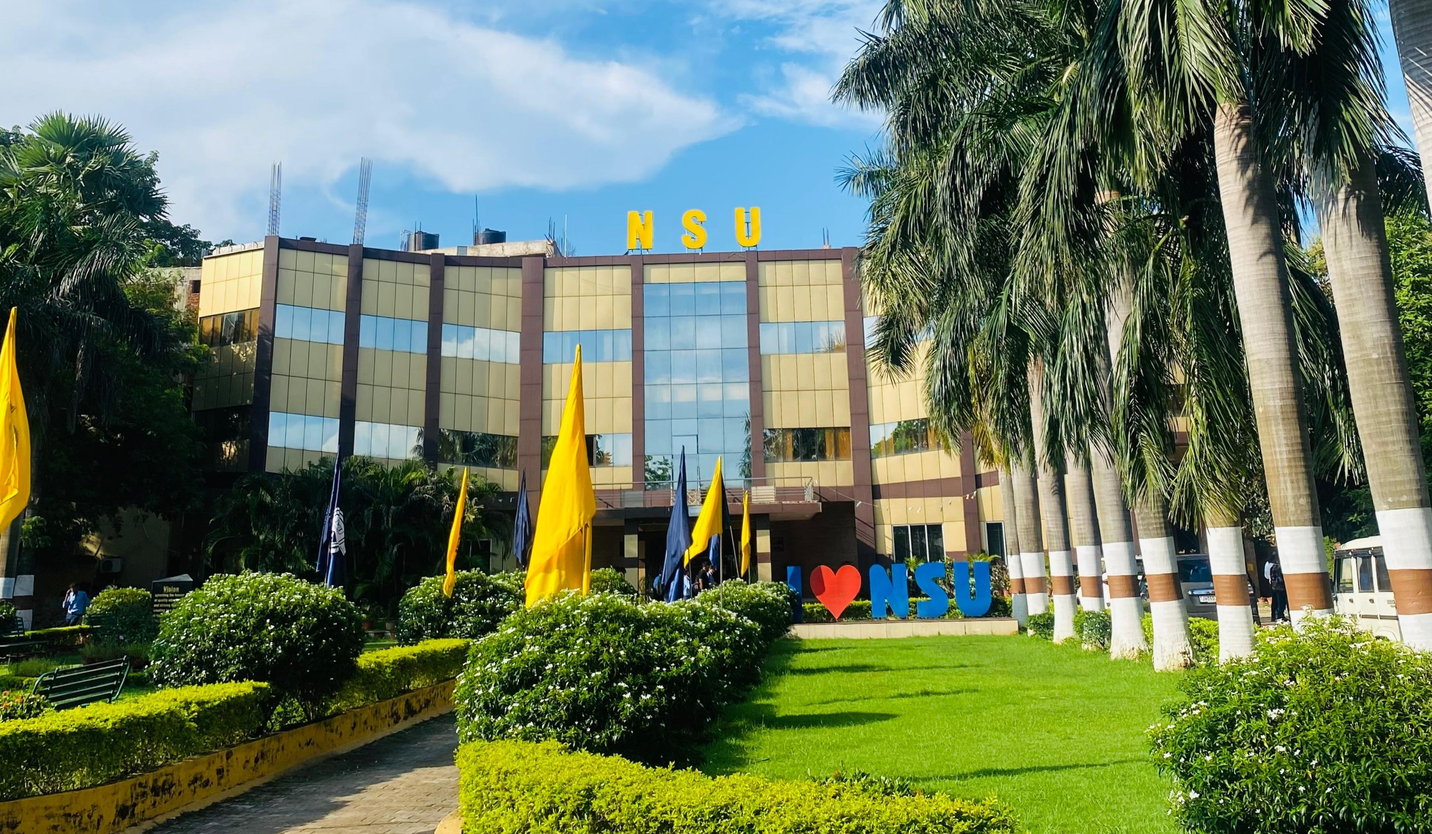
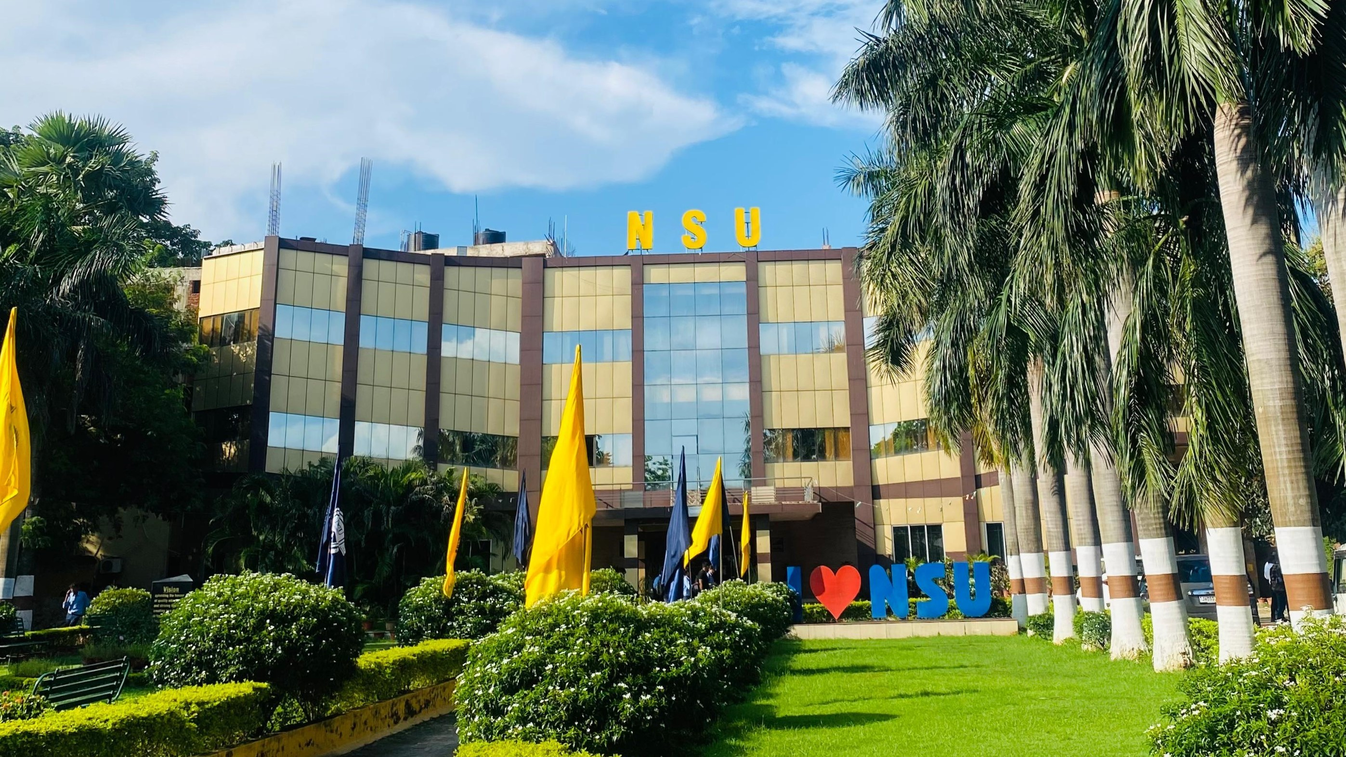
fix autofit buggs

diff --git a/index.html b/index.html
@@ -65,7 +65,7 @@
   </div>
   <div class="carousel-inner" >
     <div class="carousel-item active">
-      <img src="assets\img\nsu college.jpg" class="d-block w-100" alt="..." width="1080" height="650"  > 
+      <img src="assets\img\nsu college.jpg" class="d-block w-100" alt="..." width="1080" height="650" style="height: auto;" > 
       <!---For bettermobile view "style="height: auto;"-->
       <div class="carousel-caption d-none d-md-block">
         <h5>NSU TECH CLUB</h5>
@@ -73,7 +73,7 @@
       </div>
     </div>
     <div class="carousel-item" >
-      <img src="assets\img\poster.jpg" class="d-block w-100" alt="..." width="1080" height="650" > <!--style="height: auto;" -->
+      <img src="assets/img/group.jpg" class="d-block w-100" alt="..."  width="1080" height="650" style="height: auto;" > 
       <div class="carousel-caption d-none d-md-block">
         <h5>NSU TECH CLUB</h5>
         <p>what you wished existed.</p>
@@ -243,16 +243,16 @@
                  <div id="carouselExampleInterval" class="carousel slide" data-bs-ride="carousel">
   <div class="carousel-inner">
     <div class="carousel-item active" data-bs-interval="1000">
-      <img src="assets\img\1.jpg" class="d-block w-100" alt="..." width="1080" height="650" style="">
+      <img src="assets\img\1.jpg" class="d-block w-100" alt="..." width="1080" height="650" style="height: auto;">
     </div>
    <!--<div class="carousel-item" data-bs-interval="500">
       <img src="assets\img\2.jpg" class="d-block w-100" alt="..." width="1080" height="650" style="height: auto;">
-    </div>-->
-    <div class="carousel-item" data-bs-interval="500">
-      <img src="assets/img/group.jpg" class="d-block w-100" alt="..." width="1080" height="650" style="">
     </div>
+    <div class="carousel-item" data-bs-interval="500">
+      <img src="assets/img/group.jpg" class="d-block w-100" alt="..." width="1080" height="650" style="height: auto;">
+    </div>-->
    <div class="carousel-item" data-bs-interval="500">
-      <img src="assets\img\4.jpg" class="d-block w-100" alt="..." width="1080" height="650" style="">
+      <img src="assets\img\4.jpg" class="d-block w-100" alt="..." width="1080" height="650" style="height: auto;">
     </div>
   </div>
   <button class="carousel-control-prev" type="button" data-bs-target="#carouselExampleInterval" data-bs-slide="prev">
